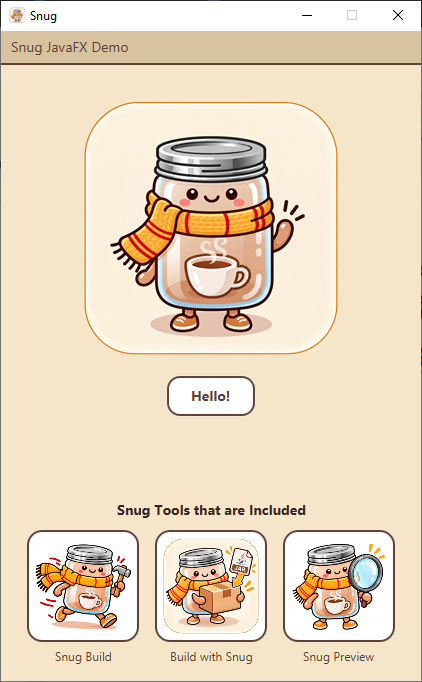
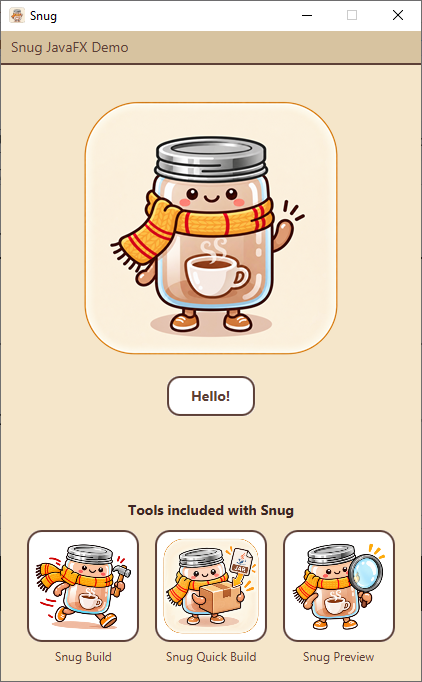
Updates to the documentation, strings and screenshots

diff --git a/src/main/java/synapticloop/snug/demo/javafx/controller/HelloController.java b/src/main/java/synapticloop/snug/demo/javafx/controller/HelloController.java
@@ -48,8 +48,8 @@ public class HelloController {
 	private static final String APP_VERSION = "1.0.0";
 
 	private static final String ABOUT_BLURB =
-			"A tiny JavaFX app used as a packaging demo target for snug, "
-					+ "the snug application packager for Windows and macOS.";
+			"A tiny JavaFX app used as a packaging demo target for Snug - "
+					+ "the application packager";
 
 	/**
 	 * The static logo, loaded directly rather than taken from the on-screen
@@ -77,12 +77,12 @@ public class HelloController {
 
 	private static final String BUILD_TITLE = "Snug Build";
 	private static final String BUILD_BLURB =
-			"Snug Builder builds your application for your operating System (available for MacOS and Windows).";
+			"Snug Builder builds your application for your operating System.";
 
 	/** Artwork shown on the dropper tile and in the modal it opens. */
 	private static final String ICON_DROPPER_URL = "/assets/images/snug-dropper.png";
 
-	private static final String DROPPER_TITLE = "Build with Snug";
+	private static final String DROPPER_TITLE = "Snug Quick Build";
 	private static final String DROPPER_BLURB =
 			"A quick drag-and-drop utility that builds an example application "
 					+ "to test out your JAR file(s)";

diff --git a/README.md b/README.md
@@ -7,10 +7,10 @@
 </p>
 
 > A minimal JavaFX 25 application used as a demo target 
-> for [**snug**](https://github.com/synapticloop/snug) — the snug application packager for Windows and macOS.
+> for [**snug**](https://github.com/synapticloop/snug) — the snug application packager.
 
 > It exists to give `snug` something real (and small) to package into a 
-> native executable. The same target feeds both the Windows builder and the macOS builder, so either packaging path can be exercised end-to-end on a self-contained desktop app.
+> native self-contained desktop app.
 
 ---
 
@@ -22,7 +22,8 @@ A single window with the snug logo, a "Hello!" button, and a "Snug Tools" row:
 - **Click the logo on the coffee cup** → the welcome label says "Mmmmm - coffee".
 - **Click the logo anywhere else** → it briefly switches to a surprised "ooh" variant, then snaps back to the logo after a second of no clicks.
 - **The "Snug JavaFX Demo" menu** → an About dialog (logo, version), and Quit.
-- **Click a "Snug Tools" tile** → a modal explaining what that snug tool does, titled to match the tile's caption. **Snug Build** describes building for MacOS and Windows; **Build with Snug** is the drag-and-drop route — drop in a JAR and it builds an example application to test it with; **Snug Preview** describes previewing the dialogs a packaged app may show on launch.
+- **Click a "Snug Tools" tile** → a modal explaining what that snug tool 
+  does, titled to match the tile's caption. 
 
   Quit is bound to the platform's normal modifier key plus `Q` — `⌘Q` on macOS,
   `Ctrl+Q` elsewhere. The accelerator is declared once in the FXML as
@@ -36,47 +37,6 @@ A single window with the snug logo, a "Hello!" button, and a "Snug Tools" row:
   have no system menu bar in Glass, so they keep the in-window bar. The FXML
   must stay on `MenuItem` / `SeparatorMenuItem` — JavaFX silently ignores the
   hand-over if a `CustomMenuItem` is ever added.
-
-## Project layout
-
-The app follows a thin MVVM split. Base package is `synapticloop.snug.demo.javafx`:
-
-```
-src/main/java/synapticloop/snug/demo/javafx/
-  Launcher.java                          // plain main() that calls Application.launch
-  HelloApplication.java                  // Application entry; wires Model → ViewModel → View, owns shutdown
-  model/
-    SnugModel.java                       // domain state + rules (logo state, welcome text, wave frame)
-    LogoState.java                       // LOGO | WAVE | OOH
-    ModelListener.java                   // Model → ViewModel callback surface
-  viewmodel/
-    HelloViewModel.java                  // JavaFX properties + animation timing (Timeline / PauseTransition)
-  controller/
-    HelloController.java                 // View glue: @FXML bindings, coffee-rect hit-test, menu + tile handlers
-  view/
-    InfoModal.java                       // builds and themes the read-only modals (About + one per tile)
-src/main/resources/
-  assets/images/                         // snug-logo.png, snug-logo-wave.png, snug-logo-ooh.png,
-                                        // snug-runner.png, snug-dropper.png, snug-preview.png
-                                        //   (the three Snug Tools tiles)
-  synapticloop/snug/demo/javafx/
-    hello-view.fxml                      // UI layout, including the menu bar and its Shortcut+Q accelerator
-    styles.css
-assets/
-  snug-javafx-demo-screenshot.png        // README screenshot, not shipped with the app
-  snug-icon.png                          // README Snug icon, not shipped with the app
-```
-
-The menu bar is declared in `hello-view.fxml` — layout stays in the view file.
-Its two actions live in `HelloController`: About opens a modal parented to the
-stage, and Quit hands off to the same `HelloApplication.shutdown()` the
-window's close button uses, so there is one exit path rather than two.
-
-About and the three Snug Tools tiles are the same read-only modal, so they
-share one implementation: `InfoModal` builds it, attaches `styles.css` to the
-dialog's own `Scene` (a `Dialog` does not inherit the owner's stylesheets,
-so without this the boxes come up in stock Modena grey), and shows it. The
-handlers in `HelloController` supply only the wording and artwork.
 
 ## Build & run
 
@@ -102,7 +62,10 @@ platform it was built for.
 
 ## About snug
 
-This project is a smoke-test fixture for [snug](https://github.com/synapticloop/snug), a tool for wrapping JVM applications as standalone native applications on Windows and macOS. The same demo is built and exercised by both the snug Windows builder and the snug macOS builder. See the snug repo for the actual packaging instructions.
+This project is a smoke-test fixture for [snug](https://github.com/synapticloop/snug), 
+a tool for wrapping JVM applications as standalone native applications. The 
+same demo is built and exercised by both the snug Windows builder and the snug 
+macOS builder. See the snug repo for the actual packaging instructions.
 
 ---
 
@@ -112,6 +75,3 @@ This project is a smoke-test fixture for [snug](https://github.com/synapticloop/
 </div>
 
 ---
-
-
-
